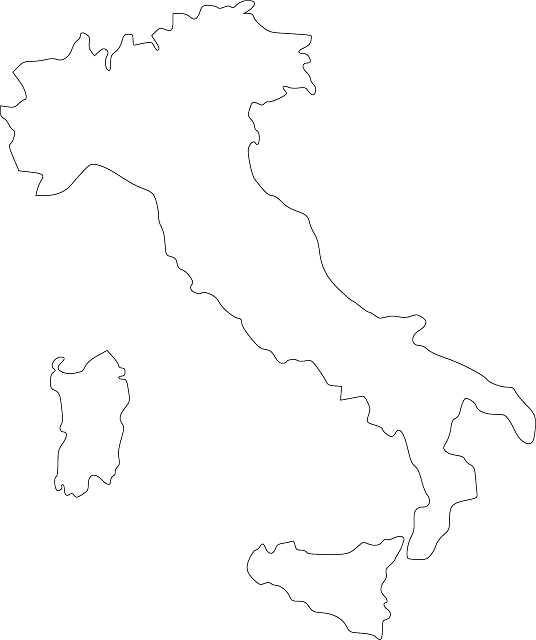
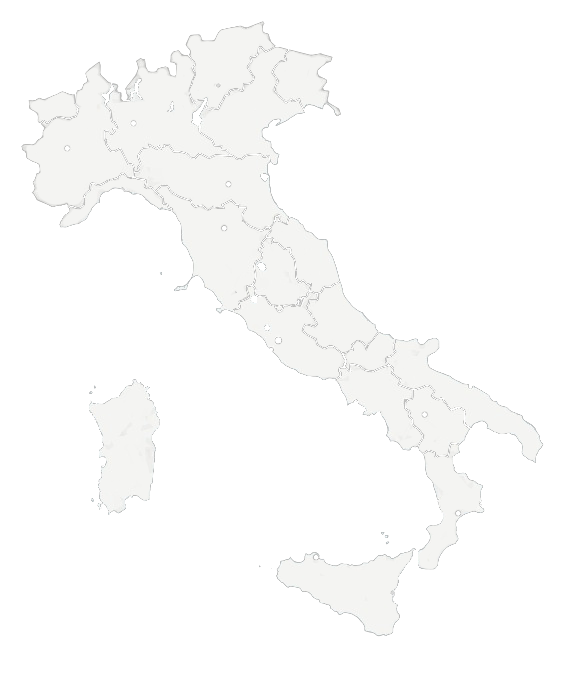
Laovro su mappa e php login

diff --git a/paginaLogin/login.html b/paginaLogin/login.html
@@ -27,7 +27,7 @@
                 </div>
                                     
                 <div class="white-panel">
-                    <div class="login-show">
+                    <div id="form-login" class="login-show">
                         <h2>LOGIN</h2>
                         <input type="text" placeholder="Email">
                         <input type="password" placeholder="Password">
@@ -35,90 +35,91 @@
                         <a href="">Password dimenticata?</a>
                     </div>
                     <div class="register-show">
+                      <form id="form-register" action="validateRegistration.php" method="POST" name="form-register" onsubmit="return validaRegistrazione()">
                         <h2>REGISTER</h2>
-                        <input type="text" placeholder="Nome" required>
-                        <input type="text" placeholder="Cognome" required>
-                        <input type="email" placeholder="Email">
+                        <input name="input_nome" type="text" placeholder="Nome" required>
+                        <input name="input_cognome"type="text" placeholder="Cognome" required>
+                        <input name="input_email" type="email" placeholder="Email" required>
                         <div class="select-box">
-                            <div class="select-box__current" tabindex="1">
+                            <div id="select_current" class="select-box__current" tabindex="1">
                               <div class="select-box__value">
-                                <input class="select-box__input" type="radio" id="0" value="1" name="Regioni" checked="checked"/>
+                                <input class="select-box__input" type="radio" id="0" value="Abruzzo" name="input_regioni" checked="checked"/>
                                 <p class="select-box__input-text">Abruzzo</p>
                               </div>
                               <div class="select-box__value">
-                                <input class="select-box__input" type="radio" id="1" value="2" name="Regioni" checked="checked"/>
+                                <input class="select-box__input" type="radio" id="1" value="Basilicata" name="input_regioni" checked="checked"/>
                                 <p class="select-box__input-text">Basilicata</p>
                               </div>
                               <div class="select-box__value">
-                                <input class="select-box__input" type="radio" id="2" value="3" name="Regioni" checked="checked"/>
+                                <input class="select-box__input" type="radio" id="2" value="Calabria" name="input_regioni" checked="checked"/>
                                 <p class="select-box__input-text">Calabria</p>
                               </div>
                               <div class="select-box__value">
-                                <input class="select-box__input" type="radio" id="3" value="4" name="Regioni" checked="checked"/>
+                                <input class="select-box__input" type="radio" id="3" value="Campania" name="input_regioni" checked="checked"/>
                                 <p class="select-box__input-text">Campania</p>
                               </div>
                               <div class="select-box__value">
-                                <input class="select-box__input" type="radio" id="4" value="5" name="Regioni" checked="checked"/>
+                                <input class="select-box__input" type="radio" id="4" value="Emilia Romagna" name="input_regioni" checked="checked"/>
                                 <p class="select-box__input-text">Emilia Romagna</p>
                               </div>
                               <div class="select-box__value">
-                                <input class="select-box__input" type="radio" id="5" value="6" name="Regioni" checked="checked"/>
+                                <input class="select-box__input" type="radio" id="5" value="Friuli-Venezia Giulia" name="input_regioni" checked="checked"/>
                                 <p class="select-box__input-text">Friuli-Venezia Giulia</p>
                               </div>
                               <div class="select-box__value">
-                                <input class="select-box__input" type="radio" id="6" value="7" name="Regioni" checked="checked"/>
+                                <input class="select-box__input" type="radio" id="6" value="Lazio" name="input_regioni" checked="checked"/>
                                 <p class="select-box__input-text">Lazio</p>
                               </div>
                               <div class="select-box__value">
-                                <input class="select-box__input" type="radio" id="7" value="8" name="Regioni" checked="checked"/>
+                                <input class="select-box__input" type="radio" id="7" value="Liguria" name="input_regioni" checked="checked"/>
                                 <p class="select-box__input-text">Liguria</p>
                               </div>
                               <div class="select-box__value">
-                                <input class="select-box__input" type="radio" id="8" value="9" name="Regioni" checked="checked"/>
+                                <input class="select-box__input" type="radio" id="8" value="Lombardia" name="input_regioni" checked="checked"/>
                                 <p class="select-box__input-text">Lombardia</p>
                               </div>
                               <div class="select-box__value">
-                                <input class="select-box__input" type="radio" id="9" value="10" name="Regioni" checked="checked"/>
+                                <input class="select-box__input" type="radio" id="9" value="Marche" name="input_regioni" checked="checked"/>
                                 <p class="select-box__input-text">Marche</p>
                               </div>
                               <div class="select-box__value">
-                                <input class="select-box__input" type="radio" id="10" value="11" name="Regioni" checked="checked"/>
+                                <input class="select-box__input" type="radio" id="10" value="Molise" name="input_regioni" checked="checked"/>
                                 <p class="select-box__input-text">Molise</p>
                               </div>
                               <div class="select-box__value">
-                                <input class="select-box__input" type="radio" id="11" value="12" name="Regioni" checked="checked"/>
+                                <input class="select-box__input" type="radio" id="11" value="Piemonte" name="input_regioni" checked="checked"/>
                                 <p class="select-box__input-text">Piemonte</p>
                               </div>
                               <div class="select-box__value">
-                                <input class="select-box__input" type="radio" id="12" value="13" name="Regioni" checked="checked"/>
+                                <input class="select-box__input" type="radio" id="12" value="Puglia" name="input_regioni" checked="checked"/>
                                 <p class="select-box__input-text">Puglia</p>
                               </div>
                               <div class="select-box__value">
-                                <input class="select-box__input" type="radio" id="13" value="14" name="Regioni" checked="checked"/>
+                                <input class="select-box__input" type="radio" id="13" value="Sardegna" name="input_regioni" checked="checked"/>
                                 <p class="select-box__input-text">Sardegna</p>
                               </div>
                               <div class="select-box__value">
-                                <input class="select-box__input" type="radio" id="14" value="15" name="Regioni" checked="checked"/>
+                                <input class="select-box__input" type="radio" id="14" value="Sicilia" name="input_regioni" checked="checked"/>
                                 <p class="select-box__input-text">Sicilia</p>
                               </div>
                               <div class="select-box__value">
-                                <input class="select-box__input" type="radio" id="15" value="16" name="Regioni" checked="checked"/>
+                                <input class="select-box__input" type="radio" id="15" value="Trentino-Alto Adige" name="input_regioni" checked="checked"/>
                                 <p class="select-box__input-text">Trentino-Alto Adige</p>
                               </div>
                               <div class="select-box__value">
-                                <input class="select-box__input" type="radio" id="16" value="17" name="Regioni" checked="checked"/>
+                                <input class="select-box__input" type="radio" id="16" value="Toscana" name="input_regioni" checked="checked"/>
                                 <p class="select-box__input-text">Toscana</p>
                               </div>
                               <div class="select-box__value">
-                                <input class="select-box__input" type="radio" id="17" value="18" name="Regioni" checked="checked"/>
+                                <input class="select-box__input" type="radio" id="17" value="Umbria" name="input_regioni" checked="checked"/>
                                 <p class="select-box__input-text">Umbria</p>
                               </div>
                               <div class="select-box__value">
-                                <input class="select-box__input" type="radio" id="18" value="19" name="Regioni" checked="checked"/>
+                                <input class="select-box__input" type="radio" id="18" value="Veneto" name="input_regioni" checked="checked"/>
                                 <p class="select-box__input-text">Veneto</p>
                               </div>
                               <div class="select-box__value">
-                                <input class="select-box__input" type="radio" id="19" value="20" name="Regioni" checked="checked"/>
+                                <input class="select-box__input" type="radio" id="19" value="Valle d'Aosta" name="input_regioni" checked="checked"/>
                                 <p class="select-box__input-text">Valle d'Aosta</p>
                               </div><img class="select-box__icon" src="http://cdn.onlinewebfonts.com/svg/img_295694.svg" alt="Arrow Icon" aria-hidden="true"/>
                             </div>
@@ -185,9 +186,10 @@
                               </li>
                             </ul>
                         </div>
-                        <input type="password" placeholder="Password">
-                        <input type="password" placeholder="Confirm Password">
+                        <input name="first_pass" id="first_pass" type="password" placeholder="Password" required>
+                        <input name="confirm_pass" id="confirm_pass" type="password" placeholder="Confirm Password" required>
                         <button class="reg-btn-show" name="RegisterButton" type="submit">Register</button>
+                      </form>
                     </div>
                 </div>
             </div>

diff --git a/paginaLogin/loginScript.js b/paginaLogin/loginScript.js
@@ -1,4 +1,3 @@
-
 $(document).ready(function(){
     $('.login-info-box').fadeOut();
     $('.login-show').addClass('show-log-panel');
@@ -30,5 +29,23 @@ $(document).ready(function(){
     $('#regioni > option').each(function(){
         $(this).addClass('select-items');
     });
+
+    $('#first_pass, #confirm_pass').on('keyup', function(){
+        var pass1 = $('#first_pass').val();
+        var pass2 = $('#confirm_pass').val();
+        if(pass1 == pass2){
+            $('.register-show input[type="password"]').css('border', '1px solid green');
+            $('.register-show input[type="password"]').css('border', '1px solid green');
+        }
+        else{
+            $('.register-show input[type="password"]').css('border', '1px solid red');
+            $('.register-show input[type="password"]').css('border', '1px solid red');
+        }
+    }); 
 });
+
+function validaRegistrazione(){
+    var info =$("input[name='Regioni']:checked").val();
+    console.log('Selezionato '+ info);
+};
     

diff --git a/Homepage/sketch.js b/Homepage/sketch.js
@@ -11,7 +11,7 @@ var long = 16.86736689;
 var zoom = 4.95;
 
 function preload(){
-    mapimg = loadImage('https://api.mapbox.com/styles/v1/mapbox/light-v10/static/12.6399,41.9509,4.95,0/570x675?access_token=pk.eyJ1IjoibWFyY296ZXRhIiwiYSI6ImNrYWR3YWM3YjFwd2wzMnM5ZDkzOWtvMnUifQ.6DYMJ2GpntTFCplg0tBkCQ');
+    mapimg = loadImage('MappaItalia/Italia.png');
     mapdata = loadJSON('https://raw.githubusercontent.com/pcm-dpc/COVID-19/master/dati-json/dpc-covid19-ita-regioni-latest.json');
 }
 
@@ -55,7 +55,7 @@ function setup(){
         var y = mercatoreY(lat) - cy;
         
         stroke(255,0,255);
-        fill(255,0,255,200);
+        fill(255, 204, 100);
         ellipse(x,y,positivi,positivi);    
     }
 }

diff --git a/Regioni/regioni.html b/Regioni/regioni.html
@@ -1,6 +1,7 @@
 <!DOCTYPE html>
 <html>
 <head>
+    <meta name="viewport" content="width=device-width, initial-scale=1">
     <link href="https://cdnjs.cloudflare.com/ajax/libs/twitter-bootstrap/4.3.1/css/bootstrap.min.css" rel="stylessheet"/>
     <link href="https://stackpath.bootstrapcdn.com/font-awesome/4.7.0/css/font-awesome.min.css" rel="stylessheet"/>
     <link href="../css/bootstrap.min.css" rel="stylessheet"/>

diff --git a/paginaLogin/signin.css b/paginaLogin/signin.css
@@ -125,7 +125,7 @@ a{
 }
 
 .select-items {
-    font-family: "Mutka", sans-serif;
+  font-family: "Mutka", sans-serif;
   width: 100%;
   display: block;
   margin:20px 0;
@@ -214,7 +214,7 @@ a{
 .select-box__input {
   display: none;
 }
-.select-box__input:checked + .select-box__input-text {
+.select-box__input:checked + .select-box__input-text{
   display: block;
 }
 .select-box__input-text {

diff --git a/Homepage/homepage.html b/Homepage/homepage.html
@@ -67,6 +67,7 @@
         <li id="casitestati">Casi testati {{ casiTestati }}</li>
       </ul>
       </div>
+      <!--Mappa centrale monitoraggio-->
       <div id='centro' class="column middle"></div>
       <div class="column right" style="background-color:#ccc;">
       <h2>Colonna destra</h2>

diff --git a/Regioni/style.css b/Regioni/style.css
@@ -184,7 +184,7 @@ strong {
 
 /* width */
 .container {
-  width: 1080px;
+  width: 100%;
 }
 
 /* Table Heading */

diff --git a/paginaLogin/validateRegistration.php b/paginaLogin/validateRegistration.php
@@ -1,0 +1,35 @@
+<html>
+    <head></head>
+    <body>
+        <?php
+            $dbconnect = pg_connect("host=localhost port=5432 dbname=covidIT-db user=postgres password=pgAdmin_009!")
+            or die("could not connect: " . preg_last_error());
+            if(!(isset($_POST['RegisterButton']))){
+                header("Location: ../Homepage/homepage.html");
+            }
+            else{ 
+                $email = $_POST['input_email'];
+                $q1 = "select * from user_registration where email= $1";
+                $result=pg_query_params($dbconn, $q1, array($email));
+                if($line=pg_fetch_array($result,null,PGSQL_ASSOC)){
+                    echo "<h1> Sei già registrato </h1>
+                    <a href=login.html> Click here to login </a>";
+                }
+                else{
+                    $nome = $_POST['input_nome'];
+                    $cognome = $_POST['input_cognome'];
+                    $email = $_POST['input_email'];
+                    $regione = $_POST['input_regioni'];
+                    $password = md5($_POST['first_pass']);
+                    $q2 = "insert into user_registration values ($1,$2,$3,$4,$5)";
+                    $data = pg_query_params($dbconnect, $q2, array($nome,$cognome,$email,$regione,$password));
+                    if($data){
+                        echo "<h1> Registration is completed accordi onStart using the website <br/></h1>";
+                        echo "<a href=../Homepage/homepage.html> Premi qui </a>
+                        per iniziare ad utilizzare il sito web";
+                    }
+                } 
+            }
+        ?>
+    </body>
+</html>
